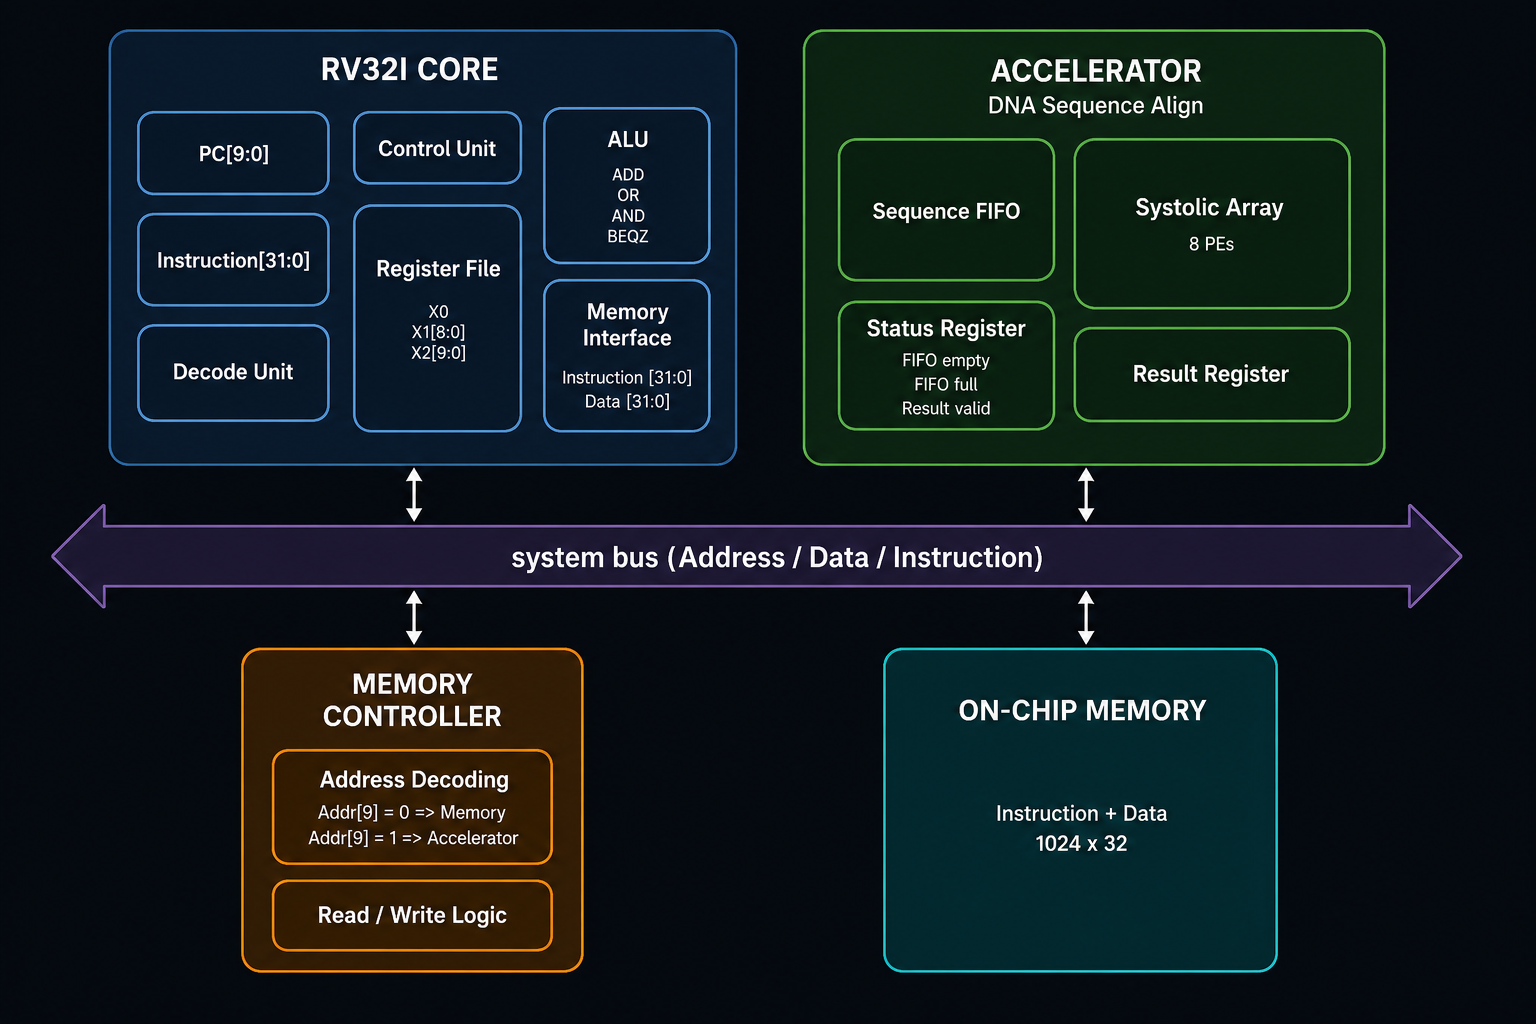
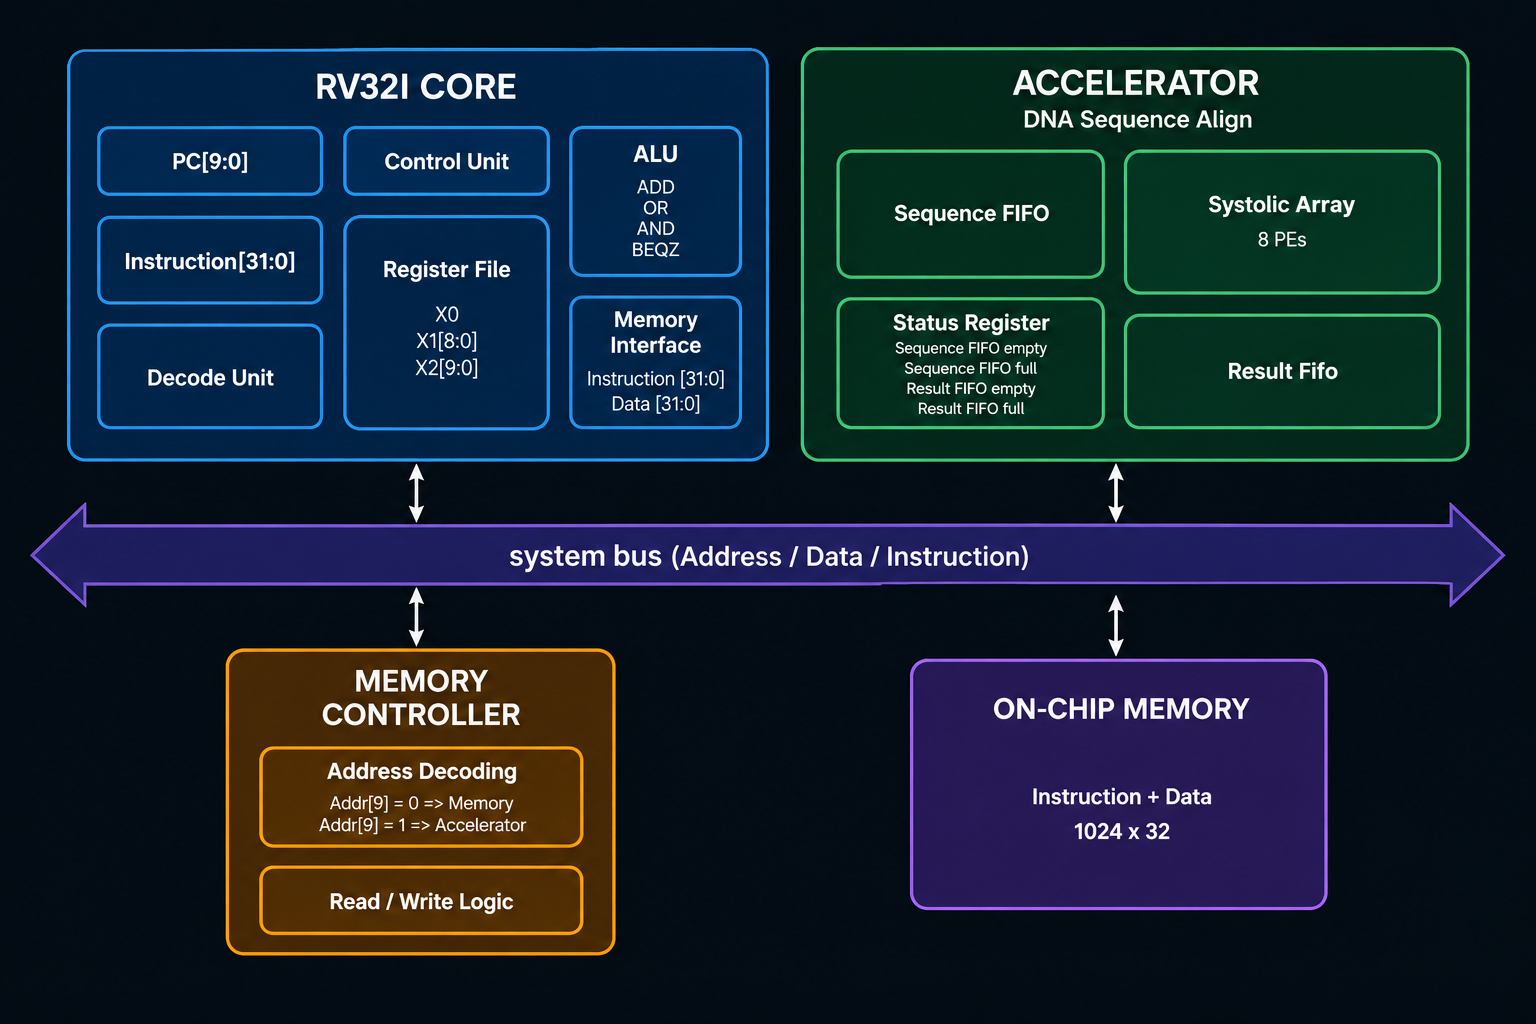
updated readme

diff --git a/README.md b/README.md
@@ -22,6 +22,27 @@ The design is divided into two parts.
   - Supports 8-character long DNA sequences.
   - Fully pipelined and capable of receiving a new test sequence while  previous sequence is still being processed.
 
+#### ASIC Implementation
+
+| Metric | Result |
+|---|---:|
+| 🎯 Target Frequency | **100 MHz** |
+| 📐 Die Area | 100,000 µm² (500 × 200 µm) |
+| ▫ Core Area | 93,350.9 µm² |
+| 📊 Cell Utilization | 83.53% |
+| 🔲 Standard Cells | 4,777 |
+| 🧩 Total Cell Instances | 7,436 |
+| ⚡ Total Power | 7.14 mW |
+| ⏱ Setup WNS | 3.82 ns |
+| ⏱ Setup TNS | 0 ns |
+| 🔒 Hold WNS | 0 ns |
+| 🔒 Hold TNS | 0 ns |
+| ✅ Setup Violations | 0 |
+| ✅ Hold Violations | 0 |
+| 🛠 Routing DRC Errors | 0 |
+| 🔍 LVS Errors | 0 |
+
+
   ![ASIC_implementation](macros/heichips26_dna_sequencer/final/render/heichips26_dna_sequencer.png)
 
 ### **RISC-V (Task Specialized) Processor**
